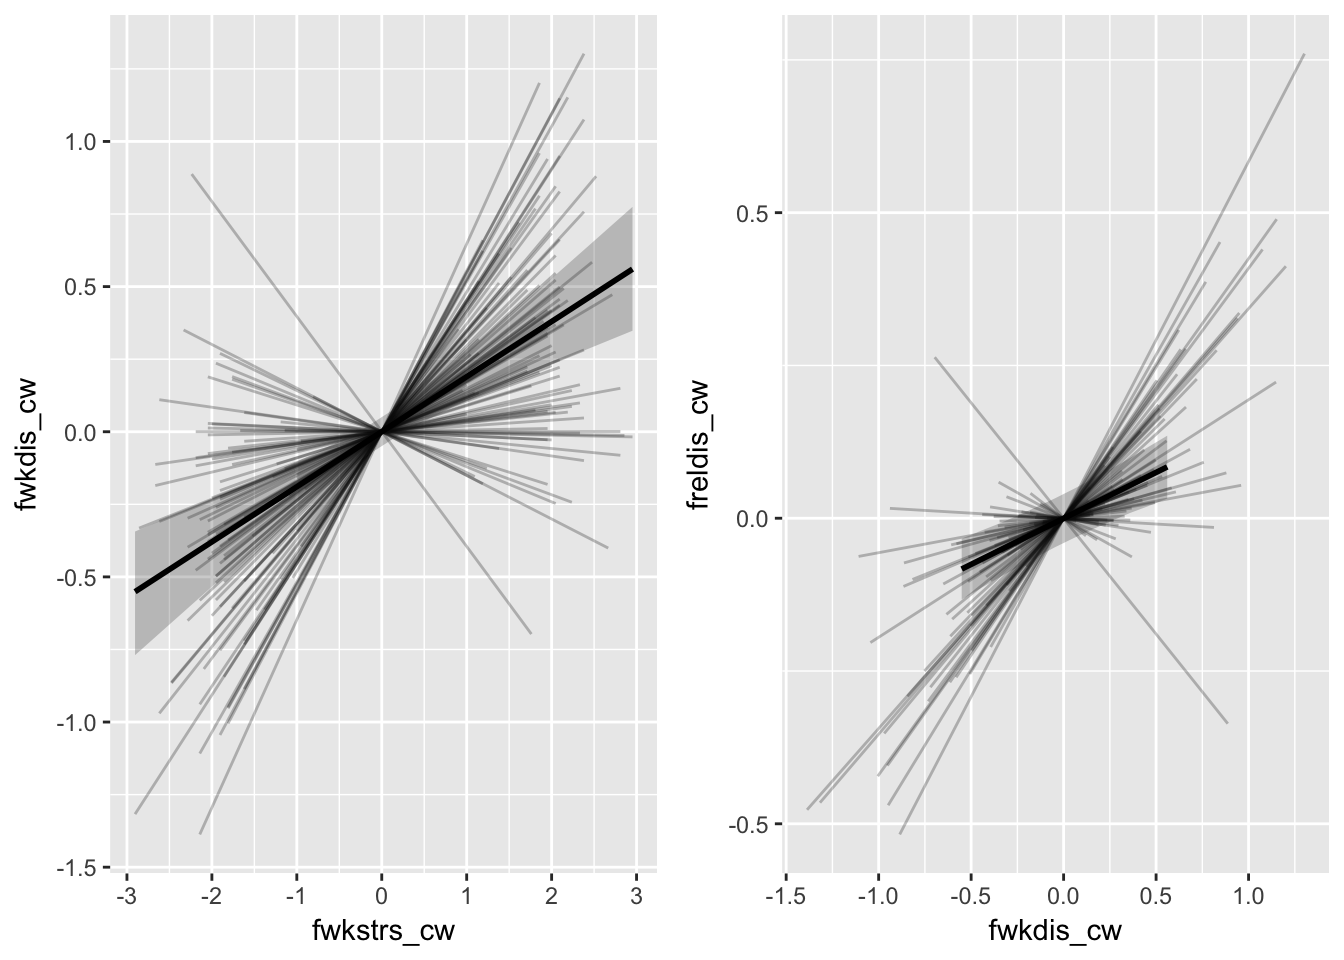
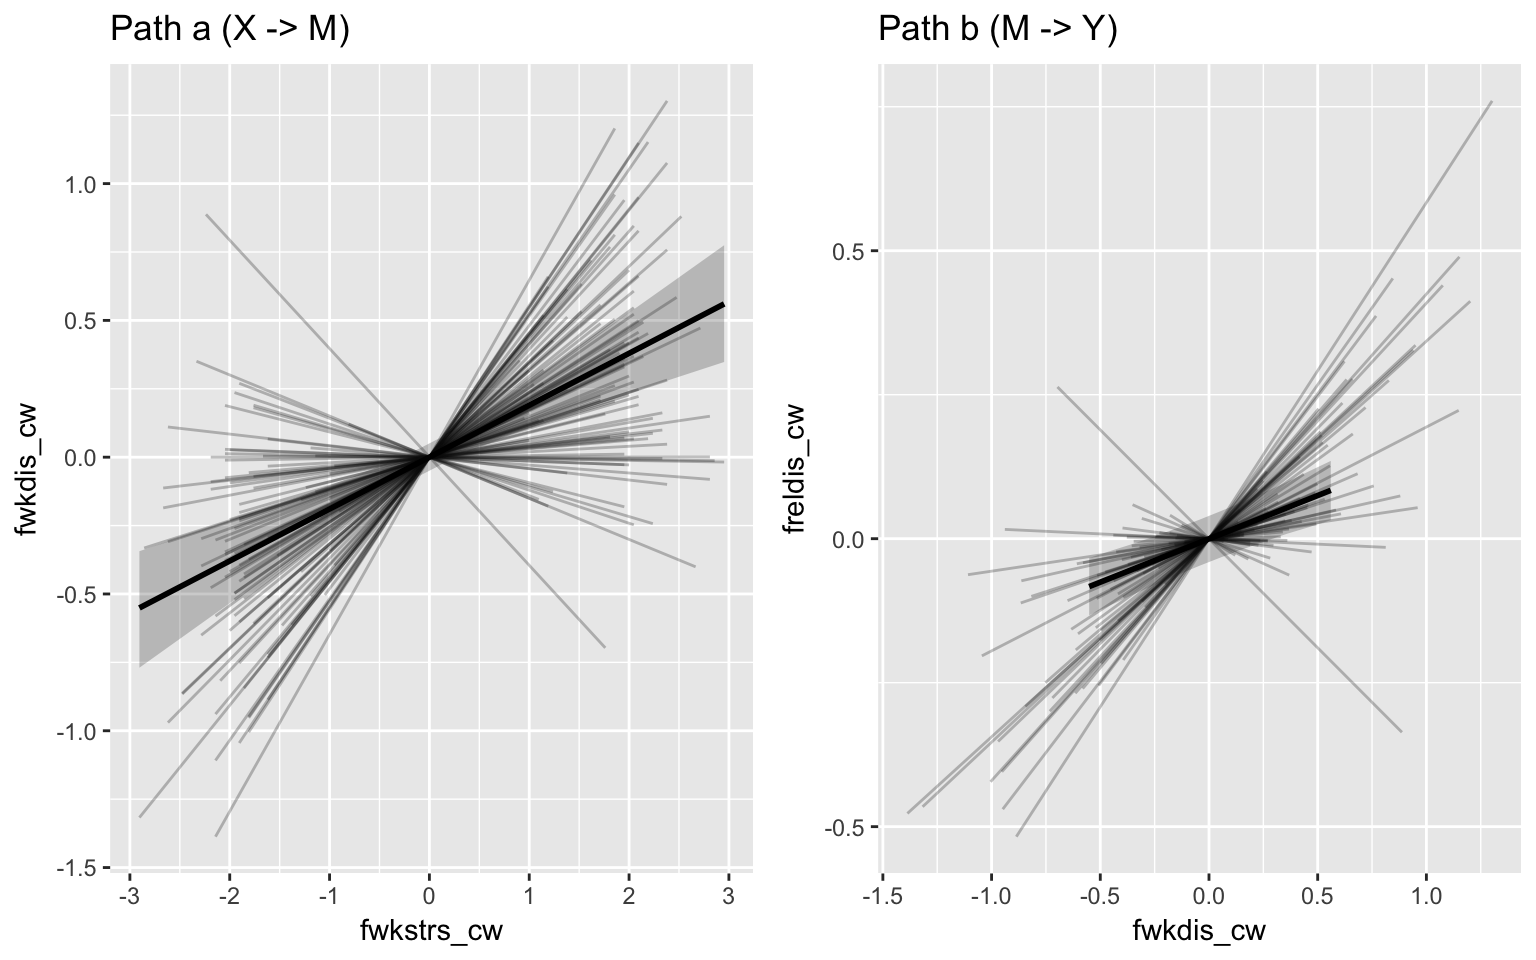
Add title to figure in vignette

diff --git a/docs/articles/bmlm/bmlm.html b/docs/articles/bmlm/bmlm.html
@@ -454,13 +454,16 @@ Varying effects standard deviations (tau) and correlations (Omega).
 <p><code>ps</code> now contains a list of two plot objects. The first plot contains the fitted values of the X -&gt; M regression (path a). By default, both the population- and subject-level fitted values are included in the plot (see <code><a href="../../reference/mlm_spaghetti_plot.html">?mlm_spaghetti_plot</a></code> for how to modify this behavior), the former is shown as a thicker line with a 95% (this percentage can be modified: <code><a href="../../reference/mlm_spaghetti_plot.html">?mlm_spaghetti_plot</a></code>) Credibility Ribbon around it.</p>
 <div class="sourceCode"><pre class="sourceCode r"><code class="sourceCode r">ps[[<span class="dv">1</span>]]</code></pre></div>
 <p><img src="bmlm_files/figure-html/unnamed-chunk-18-1.png" width="672"></p>
-<p>Both plots inside the list <code>ps</code> can be arranged side by side using the <strong>gridExtra</strong> package:</p>
-<div class="sourceCode"><pre class="sourceCode r"><code class="sourceCode r"><span class="kw">library</span>(gridExtra)
-<span class="kw">grid.arrange</span>(ps[[<span class="dv">1</span>]], ps[[<span class="dv">2</span>]], <span class="dt">nrow=</span><span class="dv">1</span>)</code></pre></div>
-<p><img src="bmlm_files/figure-html/unnamed-chunk-19-1.png" width="672"></p>
-<p>These figures can be modified with the usual <strong>ggplot2</strong> functions:</p>
+<p>Both plots inside the list <code>ps</code> can be arranged side by side using the <strong>gridExtra</strong> package, and can be modified with the usual <strong>ggplot2</strong> functions:</p>
 <div class="sourceCode"><pre class="sourceCode r"><code class="sourceCode r"><span class="kw">library</span>(ggplot2)
-ps[[<span class="dv">2</span>]] <span class="op">+</span><span class="st"> </span>
+<span class="kw">library</span>(gridExtra)
+<span class="kw">grid.arrange</span>(
+    ps[[<span class="dv">1</span>]] <span class="op">+</span><span class="st"> </span><span class="kw">labs</span>(<span class="dt">title=</span><span class="st">"Path a (X -&gt; M)"</span>), 
+    ps[[<span class="dv">2</span>]] <span class="op">+</span><span class="st"> </span><span class="kw">labs</span>(<span class="dt">title=</span><span class="st">"Path b (M -&gt; Y)"</span>), 
+    <span class="dt">nrow=</span><span class="dv">1</span>)</code></pre></div>
+<p><img src="bmlm_files/figure-html/unnamed-chunk-19-1.png" width="768"></p>
+<p>Another example:</p>
+<div class="sourceCode"><pre class="sourceCode r"><code class="sourceCode r">ps[[<span class="dv">2</span>]] <span class="op">+</span><span class="st"> </span>
 <span class="st">    </span><span class="kw">labs</span>(<span class="dt">x=</span><span class="st">"Fitted work dissatisfaction"</span>,
          <span class="dt">y=</span><span class="st">"Fitted relationship dissatisfaction"</span>) <span class="op">+</span>
 <span class="st">    </span><span class="kw">theme_bw</span>()</code></pre></div>
